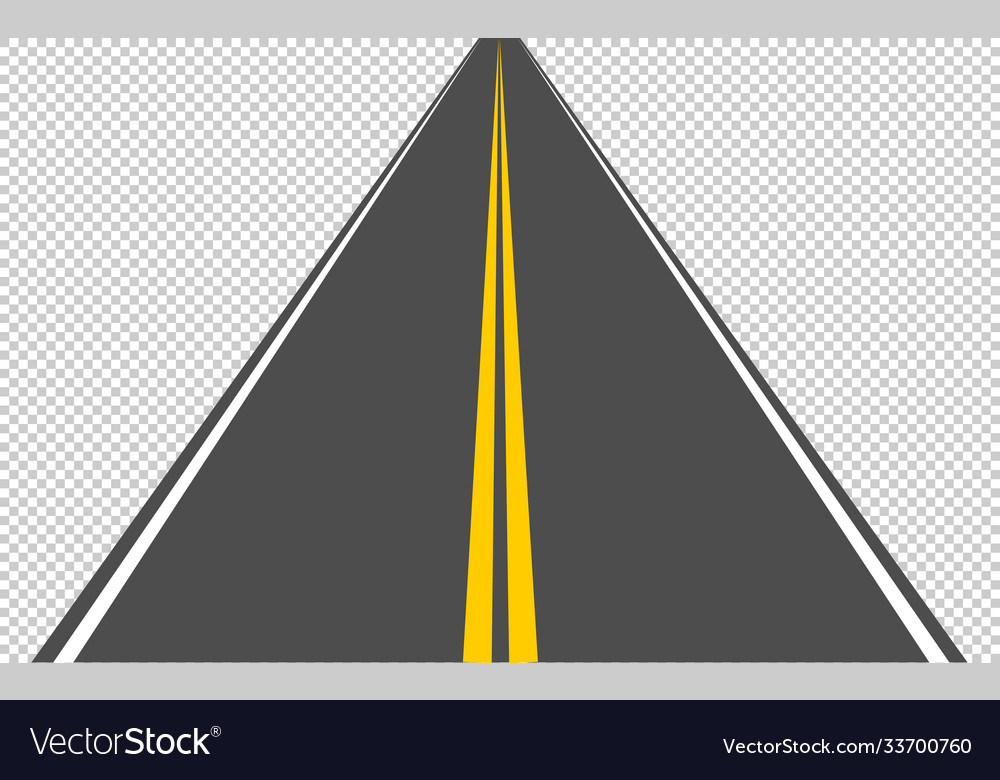
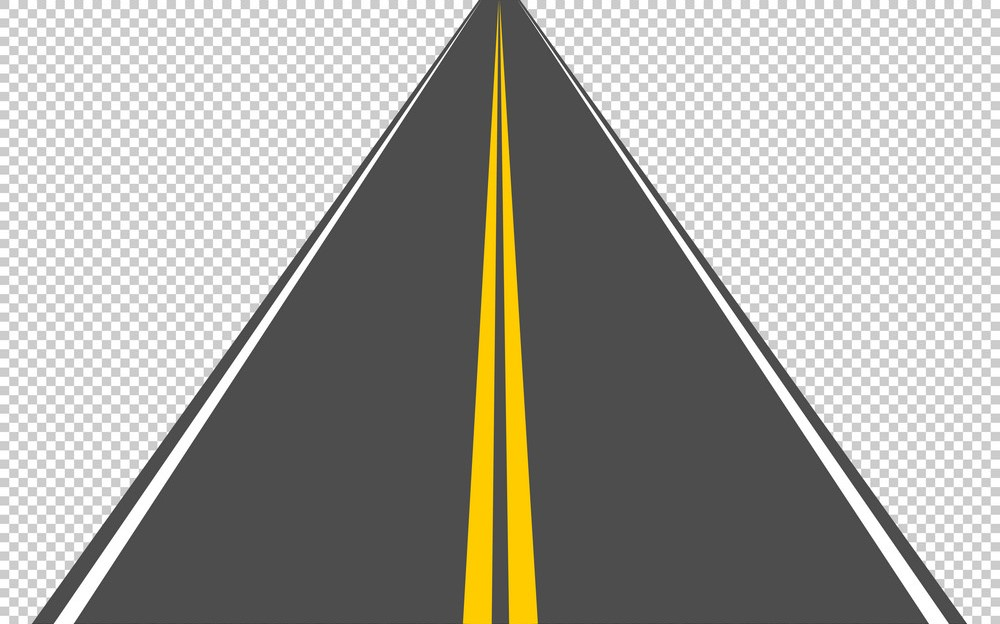
fixing background

diff --git a/car_vs_cones.html b/car_vs_cones.html
@@ -8,6 +8,8 @@
 <style>
 body {
   background-image: url('images/road.jpg');
+  background-size: cover;
+  background-attachment: fixed;
   font-family: monospace;
   color: white;
 }
